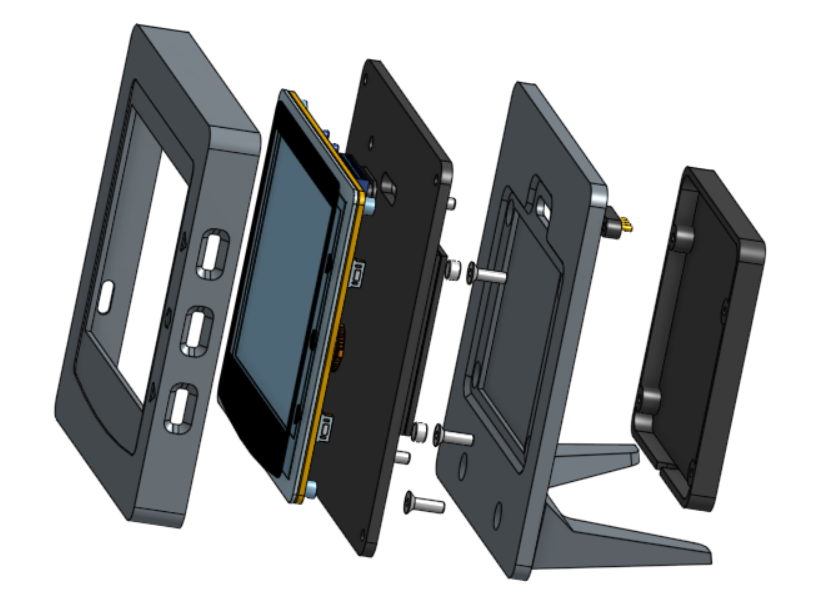
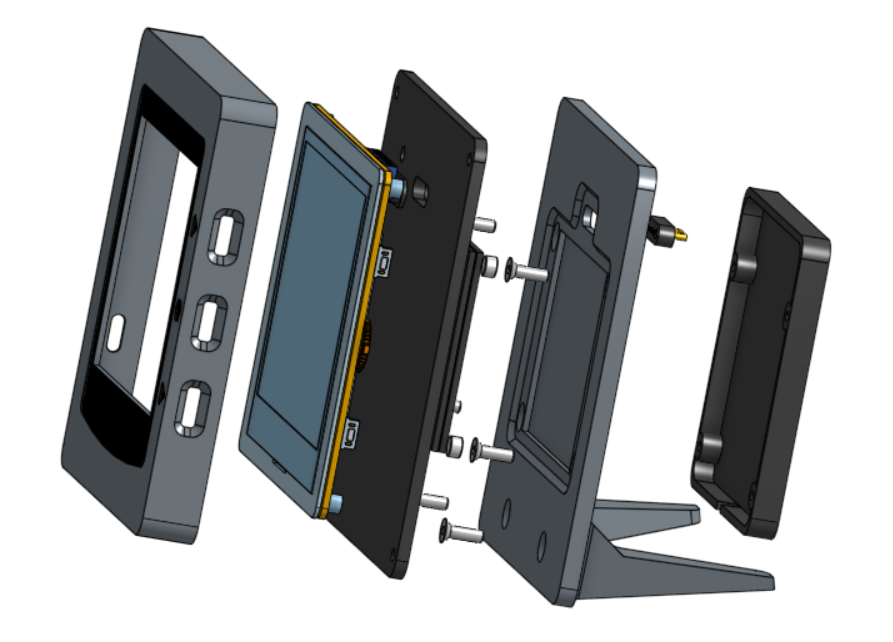
Changes

Changed region(s): [[0.0622, 0.0311, 0.933, 0.964], [0.0933, 0.7463, 0.1244, 0.8085]]

diff --git a/docs/intro/specification.rst b/docs/intro/specification.rst
@@ -30,7 +30,7 @@ Funktionen
 Aufbau
 ------
 
-.. image:: ../pics/OBP40_Explode_View.png
+.. image:: ../pics/OBP40_Explode_View_2_t.png
    :scale: 50%
 
 
